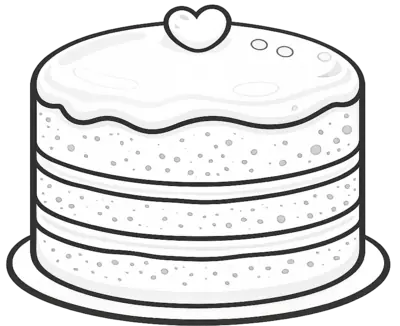
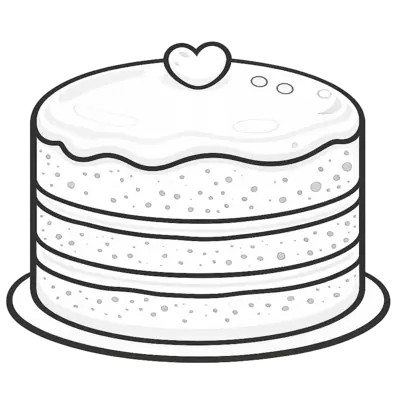
optimizar vistas del presupuesto de tortas

diff --git a/src/components/TortaPreview.jsx b/src/components/TortaPreview.jsx
@@ -11,12 +11,12 @@ function getPasoImagen(paso, pisos) {
   const p = pisos === 2 ? 2 : 1;
 
   if (paso === 1) {
-    return `/assets/tortas/presupuesto/paso-1_base_${p === 1 ? "1-piso" : "2-pisos"}.png`;
+    return `/assets/tortas/presupuesto/paso-1_base_${p === 1 ? "1-piso" : "2-pisos"}.webp`;
   }
   if (paso === 2) {
-    return `/assets/tortas/presupuesto/paso-2_bizcochuelo_${p === 1 ? "1-piso" : "2-pisos"}.png`;
+    return `/assets/tortas/presupuesto/paso-2_bizcochuelo_${p === 1 ? "1-piso" : "2-pisos"}.webp`;
   }
-  return `/assets/tortas/presupuesto/paso-3_rellenos_${p === 1 ? "1-piso" : "2-pisos"}.png`;
+  return `/assets/tortas/presupuesto/paso-3_rellenos_${p === 1 ? "1-piso" : "2-pisos"}.webp`;
 }
 
 export default function TortaPreview({ pedido }) {
@@ -61,7 +61,7 @@ export default function TortaPreview({ pedido }) {
             src={imgSrc}
             alt="Vista previa de torta personalizada"
             width="400"
-            height="326"
+            height="400"
             fetchPriority="high"
             decoding="async"
           />
